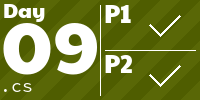
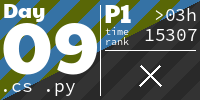
2024 Day09 part 1 solution

diff --git a/Solutions/2024/Day09/Day09 - part1.py b/Solutions/2024/Day09/Day09 - part1.py
@@ -2,7 +2,7 @@ from Helper import *
 
 start_time = initialize()
 
-with open("/workspaces/AdventOfCode/Solutions/2024/Day09/example.txt", "r") as file:
+with open("/workspaces/AdventOfCode/Solutions/2024/Day09/input.txt", "r") as file:
     data = [list(line) for line in file]
 
 input = data[0]
@@ -14,6 +14,7 @@ count_index = 0
 backwards_count_index = 0
 backwards_index = len(input)+1
 digitsToMove = 0
+number = -1
 
 for index in range(0, len(input)):
     if index > backwards_index:
@@ -28,18 +29,27 @@ for index in range(0, len(input)):
             digitsToMove -= 1
             number = int(backwards_index / 2)
             print(number)
+            if number == 6:
+                print('here')
             result += number * count_index
             count_index += 1
             numberOfDigits -= 1
             backwards_count_index += 1
-            if (backwards_count_index == count_index):
-                break
-            # figure out a way to break at the right moment, now we stay to long in the six
+            # if currentDigit == number:
+            #     if digitsToMove <= 0:
+            #         break
+            #     digitsToMove -= 1
+
     else:
         for index_digits in (range(0, numberOfDigits)):
             result += currentDigit * count_index
+            print(f'{currentDigit} * {count_index} = {currentDigit * count_index}')
             count_index += 1
-            print(currentDigit)
+            if currentDigit == number:
+                digitsToMove -= 1
+                if digitsToMove <= 1:
+                    break
+            
         currentDigit += 1
     
 print(f'Resuit: {result}')

diff --git a/README.md b/README.md
@@ -9,7 +9,7 @@ Data is stored in a private repository and can be loaded via
 
 <!-- AOC TILES BEGIN -->
 <h1 align="center">
-  2024 - 16 ⭐ - Smalltalk
+  2024 - 17 ⭐ - Smalltalk
 </h1>
 <a href="ProjectTemplate/SolverPart1.cs">
   <img src=".aoc_tiles/tiles/2024/01.png" width="161px">
@@ -34,6 +34,9 @@ Data is stored in a private repository and can be loaded via
 </a>
 <a href="Solutions/2022/Day08/InputReader.cs">
   <img src=".aoc_tiles/tiles/2024/08.png" width="161px">
+</a>
+<a href="Solutions/2023/Day09/HistoryRecord.cs">
+  <img src=".aoc_tiles/tiles/2024/09.png" width="161px">
 </a>
 <!-- AOC TILES END --> 
 <h1 align="center">
